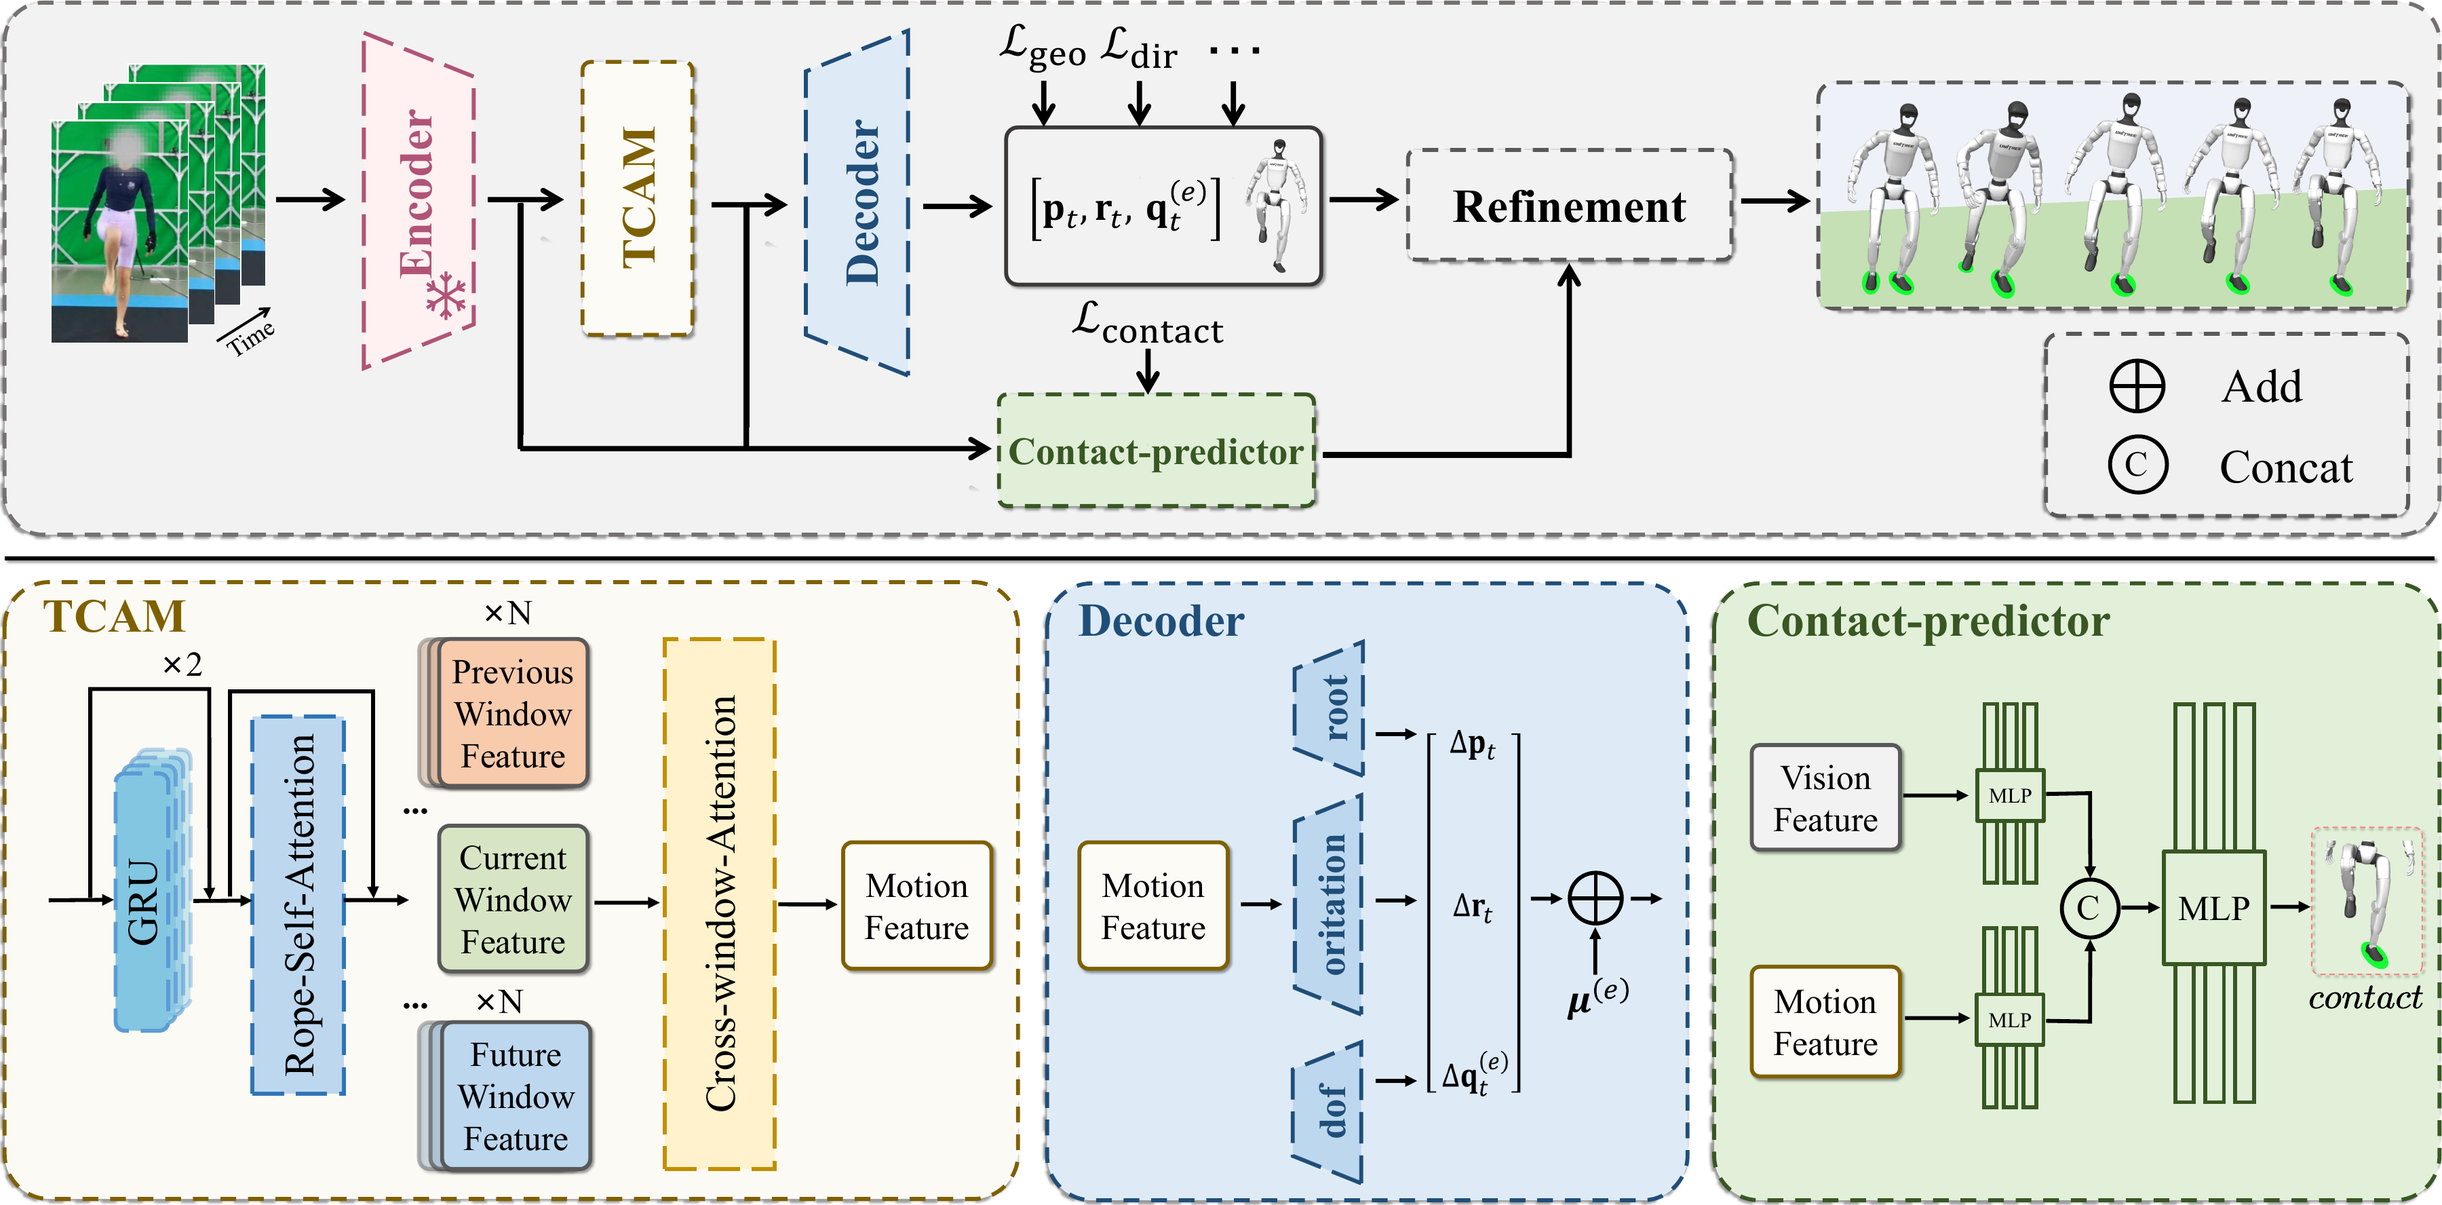
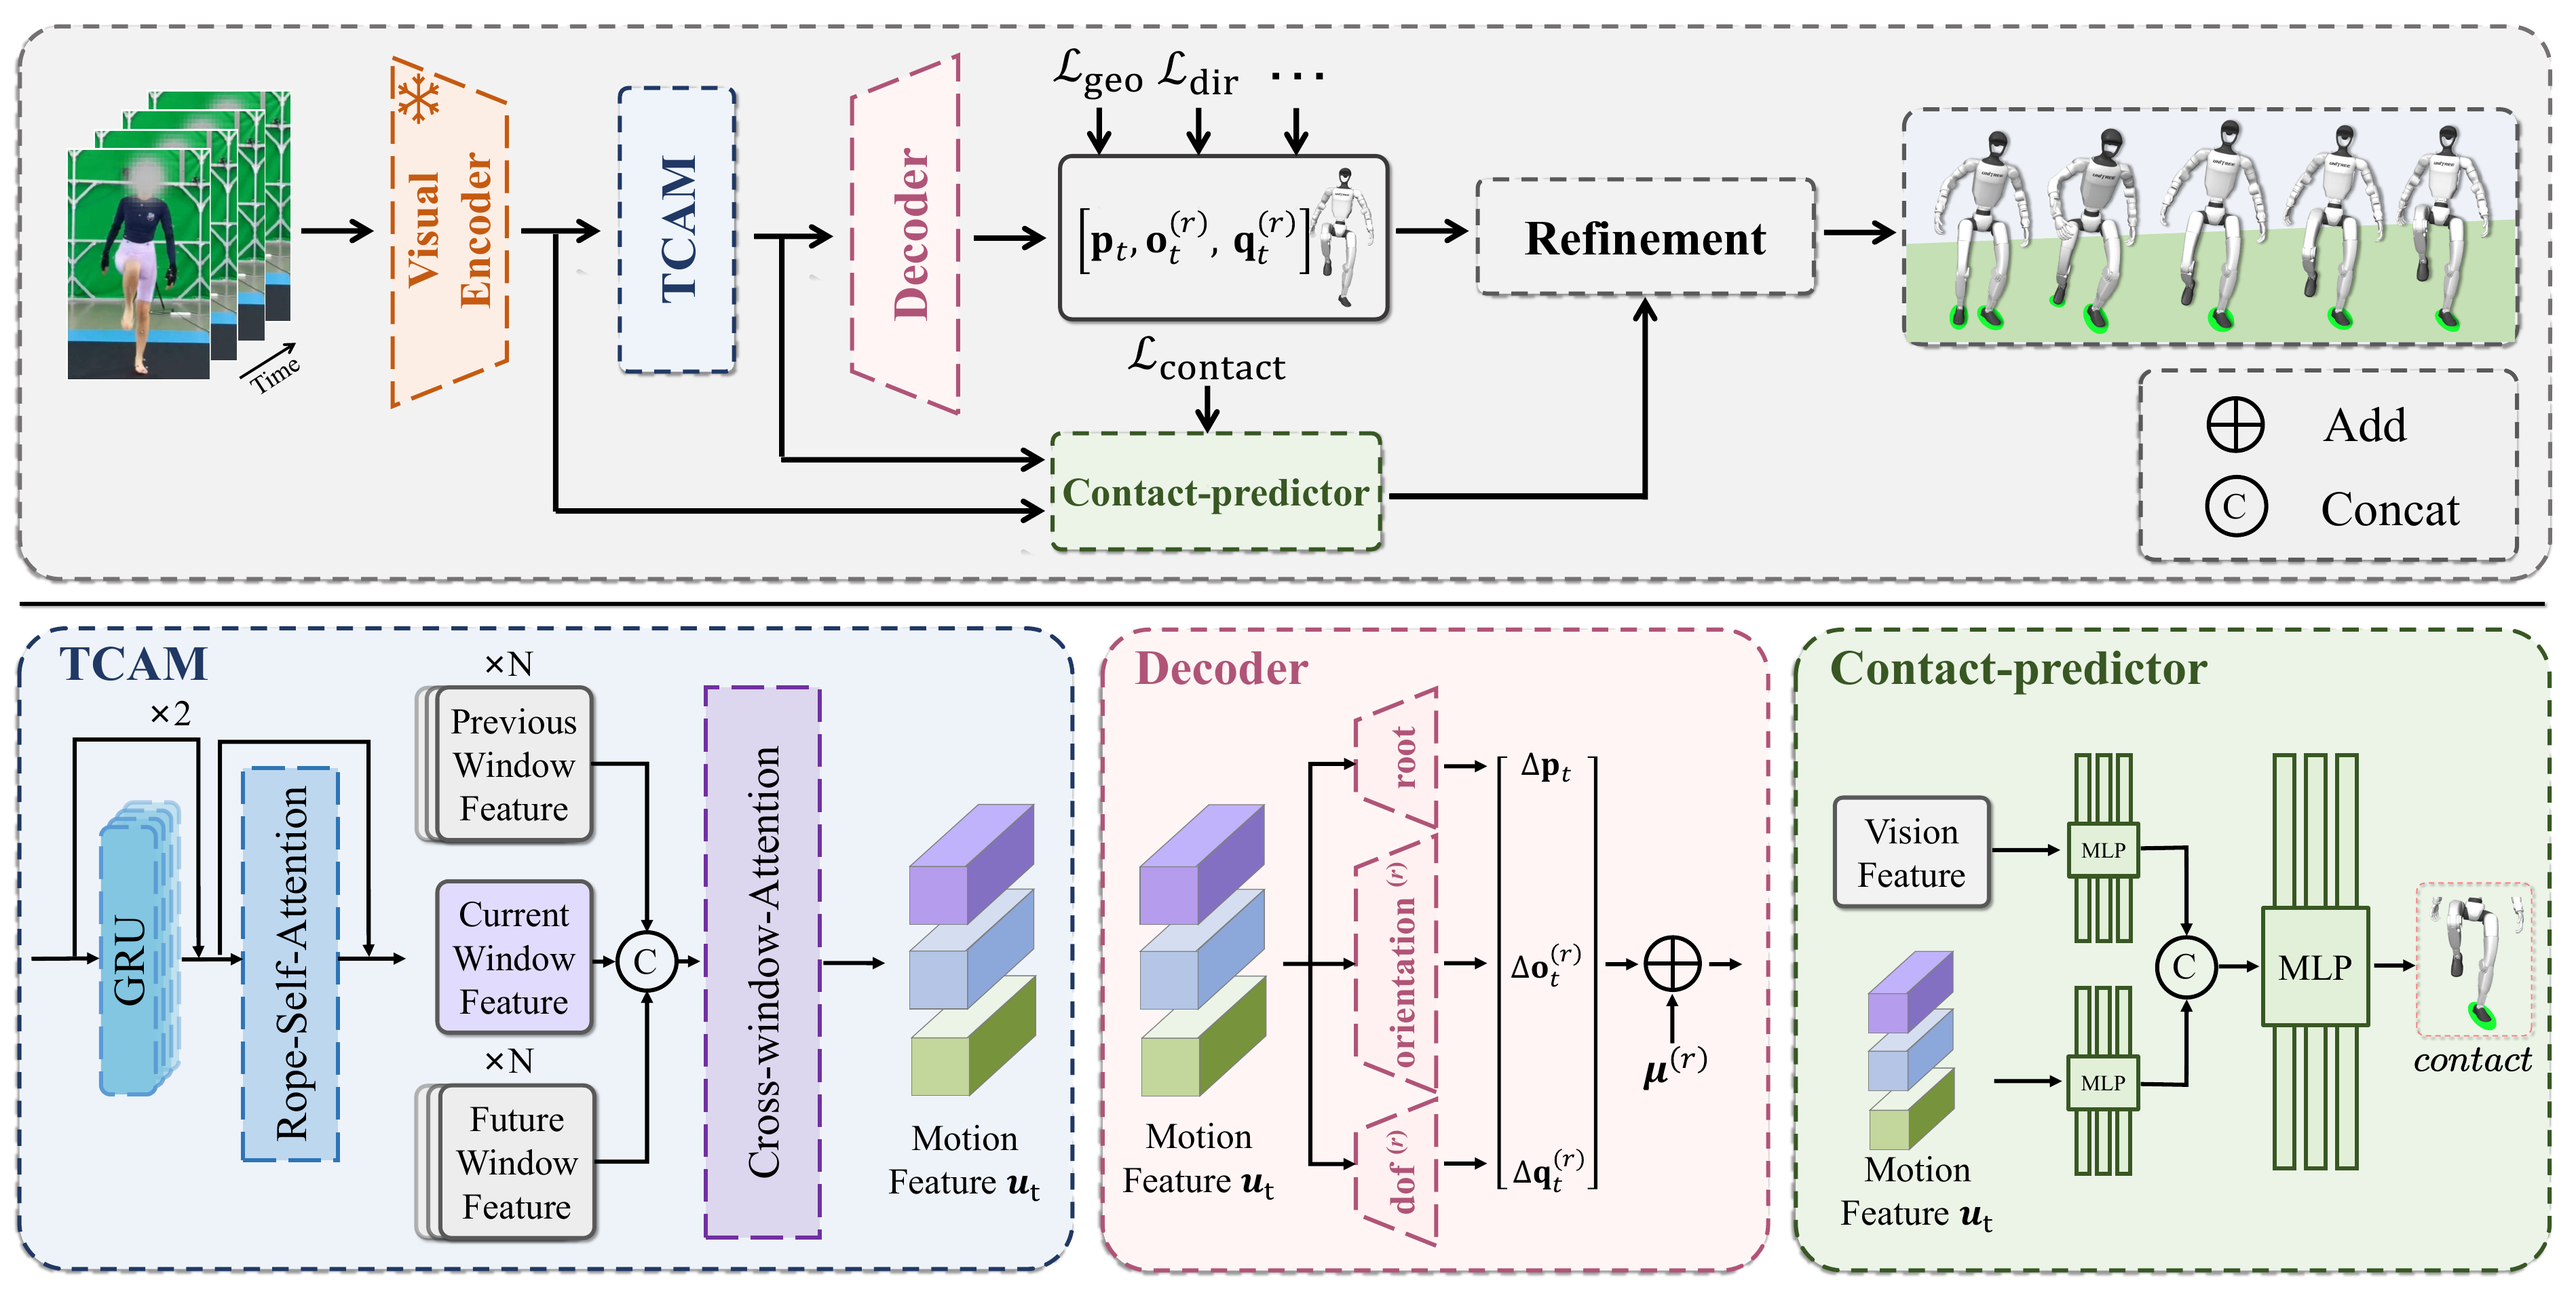
Update fig

diff --git a/index.html b/index.html
@@ -6,7 +6,7 @@
   <meta name="description" content="BeyondRetarget generates executable humanoid motion directly from monocular video without using human motion as an explicit intermediate representation during inference.">
   <meta name="keywords" content="BeyondRetarget, humanoid robot, motion retargeting, monocular video, robot motion estimation, embodied AI">
   <title>BeyondRetarget: Learning Executable Humanoid Motions Directly from Monocular Video</title>
-  <link rel="stylesheet" href="styles.css?v=20260911-hf-cleanup">
+  <link rel="stylesheet" href="styles.css?v=20260924-paper-figures">
 </head>
 <body>
   <a class="skip-link" href="#abstract">Skip to content</a>
@@ -170,7 +170,7 @@
 
           <div class="abstract-copy">
             <p>
-              Large-scale executable motion data are essential for skill learning, whole-body control, and motion imitation of humanoid robots, yet acquiring such data is complicated and difficult. Monocular human videos are easy to collect and available at scale, making them a valuable source of motion data for humanoid robots. We present BeyondRetarget, an end-to-end framework that generates executable humanoid robot motions from monocular videos. We encodes input videos into a shared motion representation space, then translate them into multi-robot motions by robot-specific motion decoders. To address the scarcity of robot-specific data, we use a unified supervision scheme by aligning corresponding human and robot keypoints and limb morphologies, enabling human models to directly supervise training. To further enhance the temporal consistency and physical plausibility, we also introduce a contact‑aware refinement module to guide motion correction. Experiments show that BeyondRetarget can acquire accurate, robust, and executable humanoid robot motions from monocular videos, providing a new approach for large-scale, high-quality robot demonstration data acquisition.
+              Humanoid robots require large-scale motion data for skill learning and whole-body control. Existing approaches typically acquire such data through motion capture and construct explicit human body representations with the SMPL model. These methods implicitly assume kinematic isomorphism between humans and humanoid robots. However, despite their human-like appearance, humanoid robots differ substantially from humans in their motion mechanisms and actuation methods, making human motion difficult to use directly for robot motion generation and potentially limiting the accuracy and executability of the resulting robot motions. We present BeyondRetarget, an end-to-end framework for mapping monocular RGB videos directly to robot motion. The proposed framework removes the explicit SMPL intermediate representation. Instead, it learns an implicit, robot-oriented representation directly from visual observations, enabling the model to capture the cross-morphology motion structures. To generate motions better suited for robot execution, we further design a contact-aware motion optimization mechanism that improves temporal consistency and physical plausibility. Experiments show that BeyondRetarget substantially improves the accuracy and robustness of generated robot motions, while achieving higher execution success rates and lower latency in both simulation and real-world humanoid robots.
             </p>
           </div>
 
@@ -178,22 +178,22 @@
             <article class="feature-card">
               <span class="feature-number">01</span>
               <h3>End-to-End Estimation</h3>
-              <p>Video features are decoded directly into robot root trajectory and joint DoFs.</p>
+              <p>Monocular RGB video maps directly to executable robot motion without an explicit SMPL intermediate.</p>
             </article>
             <article class="feature-card">
               <span class="feature-number">02</span>
-              <h3>Unified Supervision</h3>
-              <p>Human annotations supervise robots through shared semantic points and morphology-aware scaling.</p>
+              <h3>Shared Motion Feature</h3>
+              <p>A robot-oriented representation and unified human–robot supervision support multiple humanoids.</p>
             </article>
             <article class="feature-card">
               <span class="feature-number">03</span>
-              <h3>Multi-Robot shared Backbone</h3>
-              <p>Shared motion feature is reused by lightweight robot-specific decoders.</p>
+              <h3>Contact-Aware Refinement</h3>
+              <p>Explicit foot contact and support states improve temporal and physical consistency.</p>
             </article>
             <article class="feature-card">
               <span class="feature-number">04</span>
-              <h3>Contact-Aware Refinement</h3>
-              <p>Grounding and constrained IK reduce foot sliding, penetration, and contact jitter.</p>
+              <h3>Robot Validation</h3>
+              <p>Simulation and real-robot tests demonstrate accuracy, robustness, execution success, and speed.</p>
             </article>
           </div>
         </section>
@@ -214,7 +214,9 @@
           </div>
 
           <figure class="figure-card overview-figure">
-            <img src="assets/images/pipeline-comparison.png?v=20260902-local-two" alt="Comparison between the conventional human reconstruction and robot retargeting pipeline and the direct BeyondRetarget pipeline">
+            <a class="figure-link" href="assets/images/pipeline-comparison.png" target="_blank" rel="noopener noreferrer" aria-label="Open full-resolution pipeline comparison figure">
+              <img src="assets/images/pipeline-comparison.png?v=20260924-paper" alt="Conventional video-to-human-motion retargeting pipeline compared with BeyondRetarget's shared video encoder and robot-specific decoders" loading="lazy" decoding="async">
+            </a>
             <figcaption>Conventional two-stage retargeting VS End-to-end multi-robot motion estimation.</figcaption>
           </figure>
 
@@ -244,8 +246,24 @@
           <div class="technical-grid">
             <figure class="figure-card model-figure">
               <div class="figure-label">Model architecture</div>
-              <img src="assets/images/model-architecture.png?v=20260902-local-two" alt="BeyondRetarget model architecture with temporal encoding, robot motion decoding, contact prediction, and refinement">
-              <figcaption>Temporal motion encoding, robot-specific decoding, contact prediction, and refinement in one unified model.</figcaption>
+              <a class="figure-link" href="assets/images/model-architecture.png" target="_blank" rel="noopener noreferrer" aria-label="Open full-resolution model architecture figure">
+                <img src="assets/images/model-architecture.png?v=20260924-paper" alt="BeyondRetarget architecture: visual encoder, temporal context aggregation, robot motion decoder, contact predictor, and refinement" loading="lazy" decoding="async">
+              </a>
+              <figcaption>Video features become a shared robot-oriented motion representation, which is decoded and refined into executable motion.</figcaption>
+            </figure>
+            <figure class="figure-card">
+              <div class="figure-label">Unified human–robot supervision</div>
+              <a class="figure-link" href="assets/images/motion-space.png" target="_blank" rel="noopener noreferrer" aria-label="Open full-resolution unified supervision figure">
+                <img src="assets/images/motion-space.png?v=20260924-paper" alt="Human keypoints and limb directions aligned to different robot morphologies for unified motion supervision" loading="lazy" decoding="async">
+              </a>
+              <figcaption>Aligned keypoints and limb directions let human motion supervise robots with different morphologies.</figcaption>
+            </figure>
+            <figure class="figure-card">
+              <div class="figure-label">Contact-aware refinement</div>
+              <a class="figure-link" href="assets/images/contact-refinement.png" target="_blank" rel="noopener noreferrer" aria-label="Open full-resolution contact-aware refinement figure">
+                <img src="assets/images/contact-refinement.png?v=20260924-paper" alt="Contact and support state decisions guiding foot height, root trajectory, and inverse-kinematics corrections" loading="lazy" decoding="async">
+              </a>
+              <figcaption>Contact and support states guide kinematic corrections for stable robot motion.</figcaption>
             </figure>
           </div>
         </section>
@@ -358,6 +376,14 @@
             <p class="table-footnote">“—” denotes robots unsupported by GMR.</p>
           </div>
 
+          <figure class="figure-card paper-result-figure">
+            <div class="figure-label">Qualitative results</div>
+            <a class="figure-link" href="assets/images/qualitative-results.png" target="_blank" rel="noopener noreferrer" aria-label="Open full-resolution qualitative results figure">
+              <img src="assets/images/qualitative-results.png?v=20260924-paper" alt="Pose comparisons with two-stage baselines and motion examples from multiple robots" loading="lazy" decoding="async">
+            </a>
+            <figcaption>Motion comparisons and examples of a shared representation driving multiple humanoid robots.</figcaption>
+          </figure>
+
           <section class="embodied-demo-section" aria-labelledby="real-robot-teleop-title">
             <div class="result-heading embodied-demo-heading">
               <div>
@@ -392,6 +418,14 @@
                 <figcaption>Hands-behind-the-back motion. All other two-stage methods incorrectly place both hands in front of the body.</figcaption>
               </figure>
             </div>
+
+            <figure class="figure-card paper-result-figure">
+              <div class="figure-label">Real-robot and teleoperation results</div>
+              <a class="figure-link" href="assets/images/real-robot-results.png" target="_blank" rel="noopener noreferrer" aria-label="Open full-resolution real-robot results figure">
+                <img src="assets/images/real-robot-results.png?v=20260924-paper" alt="Physical robot comparisons with two-stage baselines and monocular-video-driven teleoperation" loading="lazy" decoding="async">
+              </a>
+              <figcaption>Real-robot comparisons and monocular visual teleoperation.</figcaption>
+            </figure>
 
             <div class="result-block streaming-result-block">
               <div class="result-heading">

diff --git a/styles.css b/styles.css
@@ -1001,6 +1001,15 @@ a.author-name:hover {
   background: #f6f6f6;
 }
 
+.figure-link {
+  display: block;
+  cursor: zoom-in;
+}
+
+.paper-result-figure {
+  margin: 32px 0;
+}
+
 .figure-card figcaption {
   margin-top: 13px;
   color: #7b8494;
